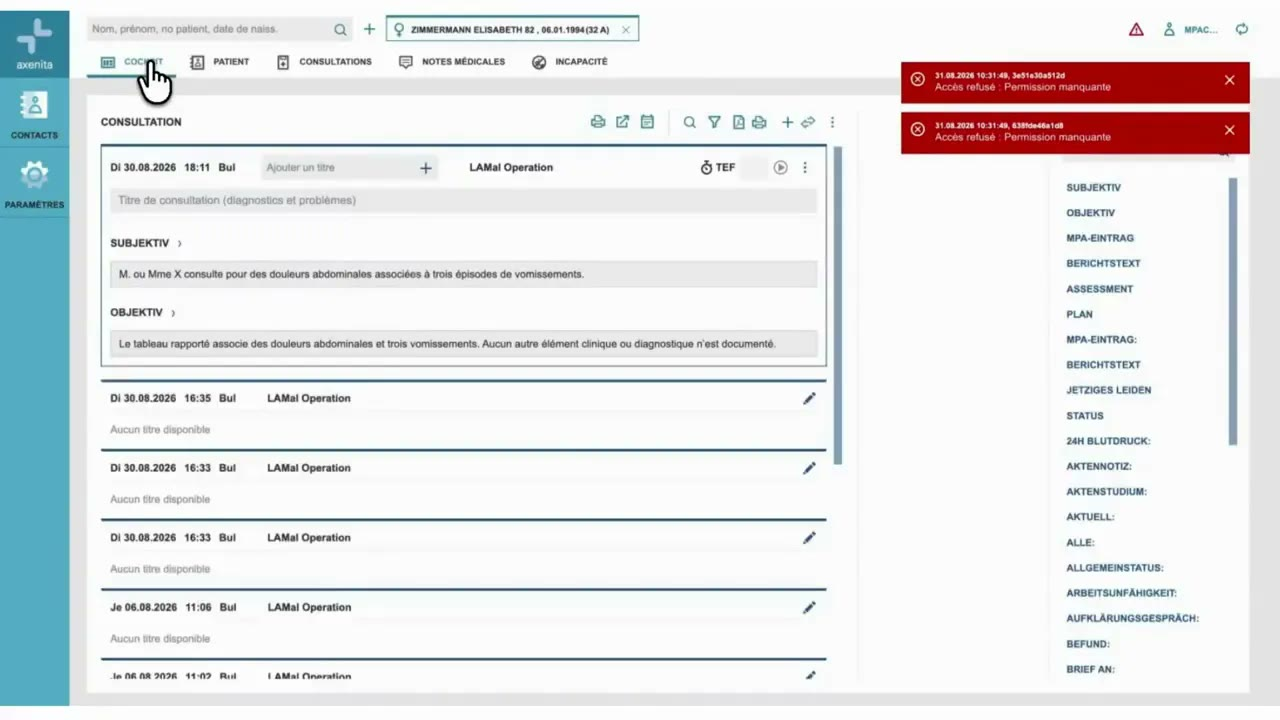
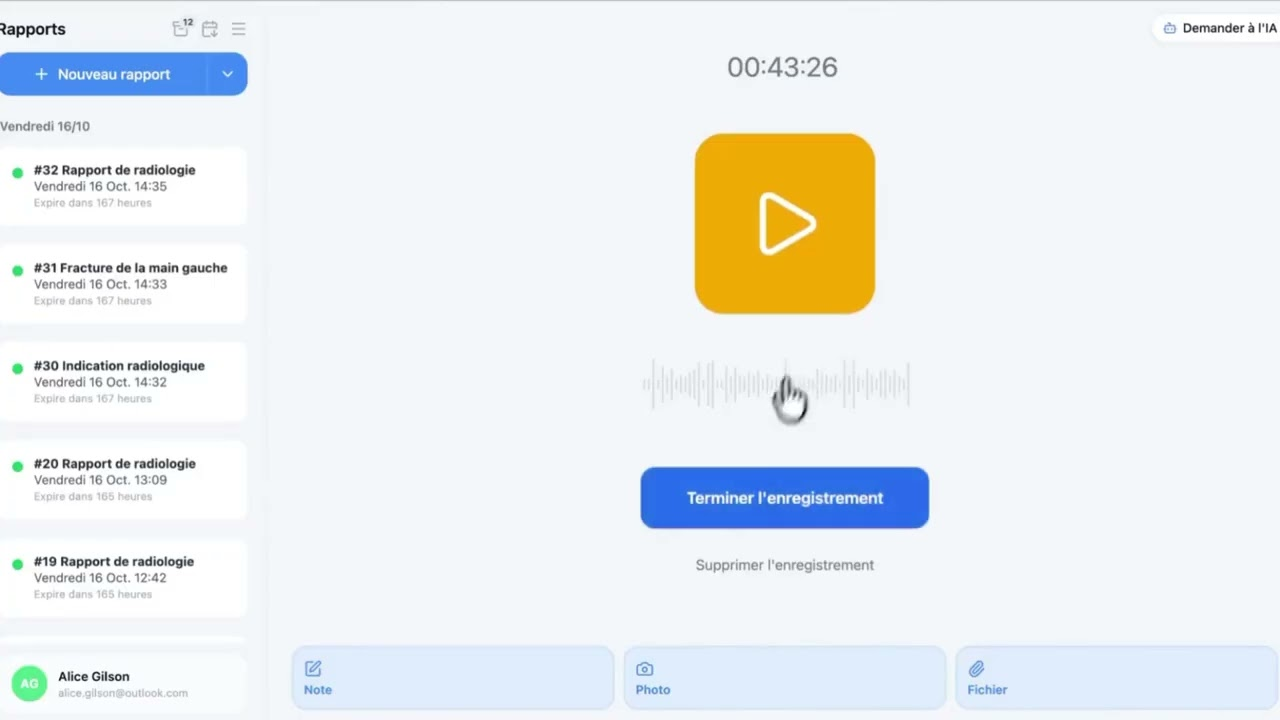
content(tutorial): new Axenita video, add secretary guide video (FR)

Changed region(s): [[0.0, 0.0, 1.0, 1.0], [0.9375, 0.2444, 0.9688, 0.6111], [0.5625, 0.0611, 0.6562, 0.1222]]

diff --git a/src/content/config.ts b/src/content/config.ts
@@ -497,6 +497,10 @@ const pagesCollection = defineCollection({
         title: z.string(),
         description: z.string(),
       }).optional(),
+      step6: z.object({
+        title: z.string(),
+        description: z.string(),
+      }).optional(),
       cta: z.object({
         title: z.string(),
         subtitle: z.string(),

diff --git a/src/content/blog/de/axenita-integration-tutorial.md b/src/content/blog/de/axenita-integration-tutorial.md
@@ -12,9 +12,10 @@ authorUrl: "https://www.linkedin.com/in/alice-gilson-816390251/"
 image: "../../../assets/blog/yt-axenita-integration-tutorial.jpg"
 fullImage: true
 date: "2026-08-31"
+updatedDate: "2026-10-16"
 ---
 
-<div class="video-embed"><iframe src="https://www.youtube-nocookie.com/embed/wpQYYmleWZg" title="DocNote x Axenita: Verbindung einrichten und Berichte in die Patientenakte senden (Video)" loading="lazy" allow="accelerometer; clipboard-write; encrypted-media; gyroscope; picture-in-picture; web-share" referrerpolicy="strict-origin-when-cross-origin" allowfullscreen></iframe></div>
+<div class="video-embed"><iframe src="https://www.youtube-nocookie.com/embed/PR38Go5YqDM" title="DocNote x Axenita: Verbindung einrichten und Berichte in die Patientenakte senden (Video)" loading="lazy" allow="accelerometer; clipboard-write; encrypted-media; gyroscope; picture-in-picture; web-share" referrerpolicy="strict-origin-when-cross-origin" allowfullscreen></iframe></div>
 
 DocNote lässt sich jetzt direkt aus der elektronischen Patientenakte Axenita nutzen. Sie öffnen DocNote aus der Patientenakte, generieren Ihren Bericht und senden ihn direkt zurück nach Axenita, ohne Copy-Paste und ohne Änderung Ihrer Abläufe. Dieses Video (auf Französisch) behandelt die einmalige Konfiguration und danach den täglichen Arbeitsablauf. Beides ist unten ausgeschrieben, inklusive der exakt einzutragenden Werte.
 

diff --git a/src/content/blog/fr/tuto-integration-axenita.md b/src/content/blog/fr/tuto-integration-axenita.md
@@ -12,9 +12,10 @@ authorUrl: "https://www.linkedin.com/in/alice-gilson-816390251/"
 image: "../../../assets/blog/yt-axenita-integration-tutorial.jpg"
 fullImage: true
 date: "2026-08-31"
+updatedDate: "2026-10-16"
 ---
 
-<div class="video-embed"><iframe src="https://www.youtube-nocookie.com/embed/wpQYYmleWZg" title="DocNote x Axenita : configurer la connexion et envoyer vos rapports dans le dossier patient (vidéo)" loading="lazy" allow="accelerometer; clipboard-write; encrypted-media; gyroscope; picture-in-picture; web-share" referrerpolicy="strict-origin-when-cross-origin" allowfullscreen></iframe></div>
+<div class="video-embed"><iframe src="https://www.youtube-nocookie.com/embed/PR38Go5YqDM" title="DocNote x Axenita : configurer la connexion et envoyer vos rapports dans le dossier patient (vidéo)" loading="lazy" allow="accelerometer; clipboard-write; encrypted-media; gyroscope; picture-in-picture; web-share" referrerpolicy="strict-origin-when-cross-origin" allowfullscreen></iframe></div>
 
 Vous pouvez désormais utiliser DocNote directement depuis votre DPI Axenita. Vous ouvrez DocNote depuis le dossier patient, générez votre compte rendu et l'envoyez directement dans Axenita, sans copier-coller et sans modifier vos habitudes. Cette vidéo couvre la configuration initiale puis le flux quotidien. Les deux sont détaillés ci-dessous, avec les valeurs exactes à saisir.
 

diff --git a/src/content/blog/en/axenita-integration-tutorial.md b/src/content/blog/en/axenita-integration-tutorial.md
@@ -12,9 +12,10 @@ authorUrl: "https://www.linkedin.com/in/alice-gilson-816390251/"
 image: "../../../assets/blog/yt-axenita-integration-tutorial.jpg"
 fullImage: true
 date: "2026-08-31"
+updatedDate: "2026-10-16"
 ---
 
-<div class="video-embed"><iframe src="https://www.youtube-nocookie.com/embed/wpQYYmleWZg" title="DocNote x Axenita: set up the connection and send reports to the patient file (video)" loading="lazy" allow="accelerometer; clipboard-write; encrypted-media; gyroscope; picture-in-picture; web-share" referrerpolicy="strict-origin-when-cross-origin" allowfullscreen></iframe></div>
+<div class="video-embed"><iframe src="https://www.youtube-nocookie.com/embed/PR38Go5YqDM" title="DocNote x Axenita: set up the connection and send reports to the patient file (video)" loading="lazy" allow="accelerometer; clipboard-write; encrypted-media; gyroscope; picture-in-picture; web-share" referrerpolicy="strict-origin-when-cross-origin" allowfullscreen></iframe></div>
 
 DocNote can now be used directly from the Axenita electronic patient record. You open DocNote from the patient file, generate your report, and send it straight back into Axenita, with no copy-paste and no change to your routine. This video (in French) covers the one-time configuration and then the daily workflow. Both are written out below, including the exact values to enter.
 
